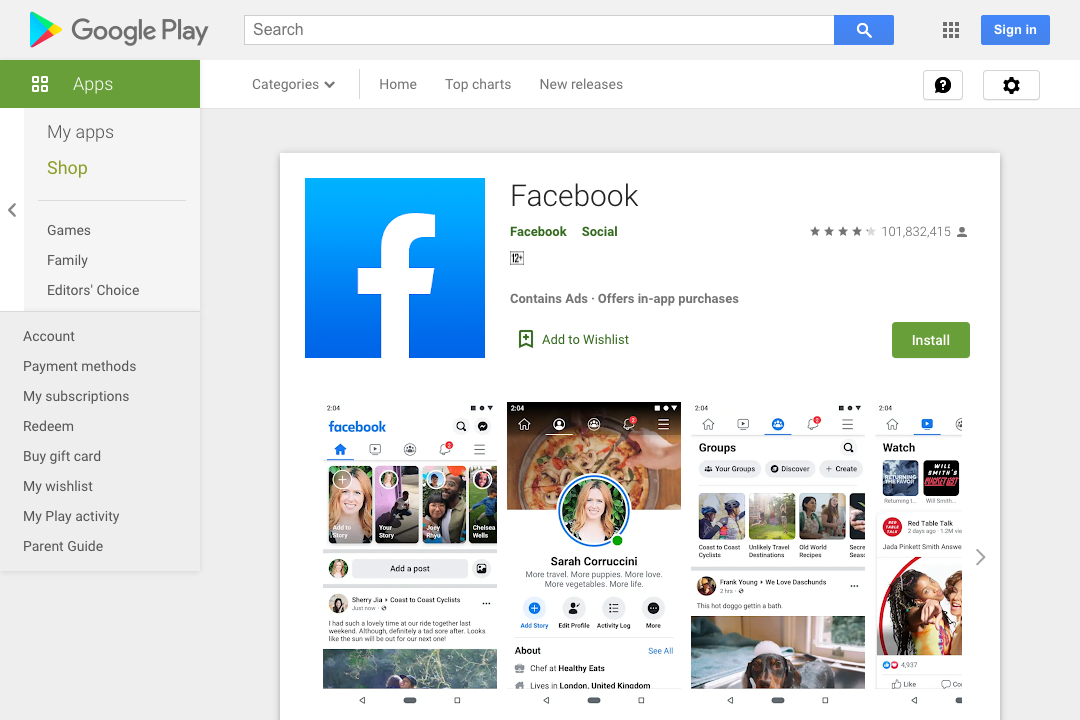
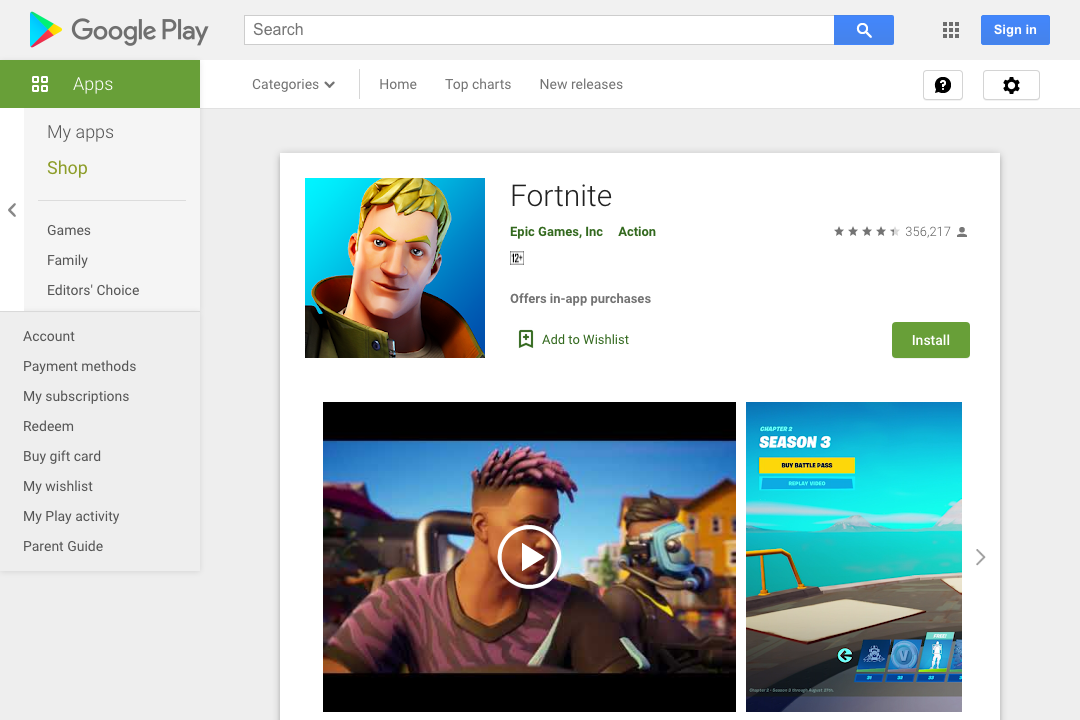
..

Changed region(s): [[0.275, 0.55, 0.9167, 1.0], [0.275, 0.2444, 0.6722, 0.5194], [0.7639, 0.3056, 0.8861, 0.3361]]

diff --git a/scraping/index.js b/scraping/index.js
@@ -1,29 +1,3 @@
-// const puppeteer = require('puppeteer');
-// const GoogleSearch = require('./models/GoogleSearch');
-// const PlayStore = require('./models/PlayStore');
-
-// async function myFunc() {
-// 	const browser = await puppeteer.launch();
-// 	const page = await browser.newPage();
-// 	await page.setViewport({
-// 		width: 720,
-// 		height: 480,
-// 		deviceScaleFactor: 1,
-// 	});
-// 	var t1 = console.time()
-// 	//var data =  await gs.getSearchData()
-// 	var playStoreData = await new PlayStore('com.brave.browser').getPlayStoreInfo();
-// 	//var googleSearch = await new GoogleSearch(browser,page).getSearchTermsResult(playStoreData.devName);
-
-// 	console.log(playStoreData);
-// 	//console.log(googleSearch);
-// 	//var countryData=await new GoogleSearch().getCountryName()
-// 	await browser.close();
-// 	console.timeEnd()
-
-// }
-
-// myFunc();
 var express = require('express');
 var app = express();
 var bodyParser = require('body-parser');

diff --git a/scraping/routes/route.js b/scraping/routes/route.js
@@ -6,11 +6,11 @@ var googlesearch = require('../controllers/GoogleSearchController')
 var googleplayscrapper = require('../controllers/GooglePlayScrapperController')
 
 //Play Store api's
- api.use('/api/getplaystoreinfo', playstore.getplaystoreinfo);
+ api.use('/api/getplaystoreinfo', playstore.getplaystoreinfo);//{"pkgName":"com.epicgames.fortnite"}
 
 //Google Search api's
- api.use('/api/getsearchtermsresult', googlesearch.getSearchTermsResult);
- api.use('/api/getsearchdata', googlesearch.getSearchData);
+ api.use('/api/getsearchtermsresult', googlesearch.getSearchTermsResult);// not a api
+ api.use('/api/getsearchdata', googlesearch.getSearchData); // 
  api.use('/api/getcountryname', googlesearch.getCountryName);
 
 //Google Play Scrapper api's

diff --git a/scraping/controllers/PlayStoreController.js b/scraping/controllers/PlayStoreController.js
@@ -3,8 +3,9 @@ var PlayStore = require('../models/PlayStore');
 module.exports.getplaystoreinfo = async function (req, res) {
     try {
         bodyInfo = req.body
-        if (1) {
-            response = await new PlayStore("com.facebook.katana").getPlayStoreInfo()
+        var pkgName=bodyInfo.pkgName
+        if (pkgName) {
+            response = await new PlayStore(pkgName).getPlayStoreInfo()
             res.send(response)
         } else {
             res.send({ "Success": false, "Error": error, "Payload": [] })

diff --git a/scraping/country-detector/examples.js b/scraping/country-detector/examples.js
@@ -1,7 +1,8 @@
 var countryDetector = require("./index.js");
 
 // handles countries in text, result is array of matches (objects)
-var result = countryDetector.detect("Hello, I come from Anta Sports!");
+var result = countryDetector.detect("Hello, I come from huawei!");
+console.log(result)
 /*
 [
 	{ iso3166: 'DE', name: 'Germany', type: 'country', matches: [ 'Germany' ] }

diff --git a/frontend/src/environments/environment.prod.ts b/frontend/src/environments/environment.prod.ts
@@ -1,3 +1,4 @@
 export const environment = {
-  production: true
+  production: true,
+  apiUrl:''
 };
